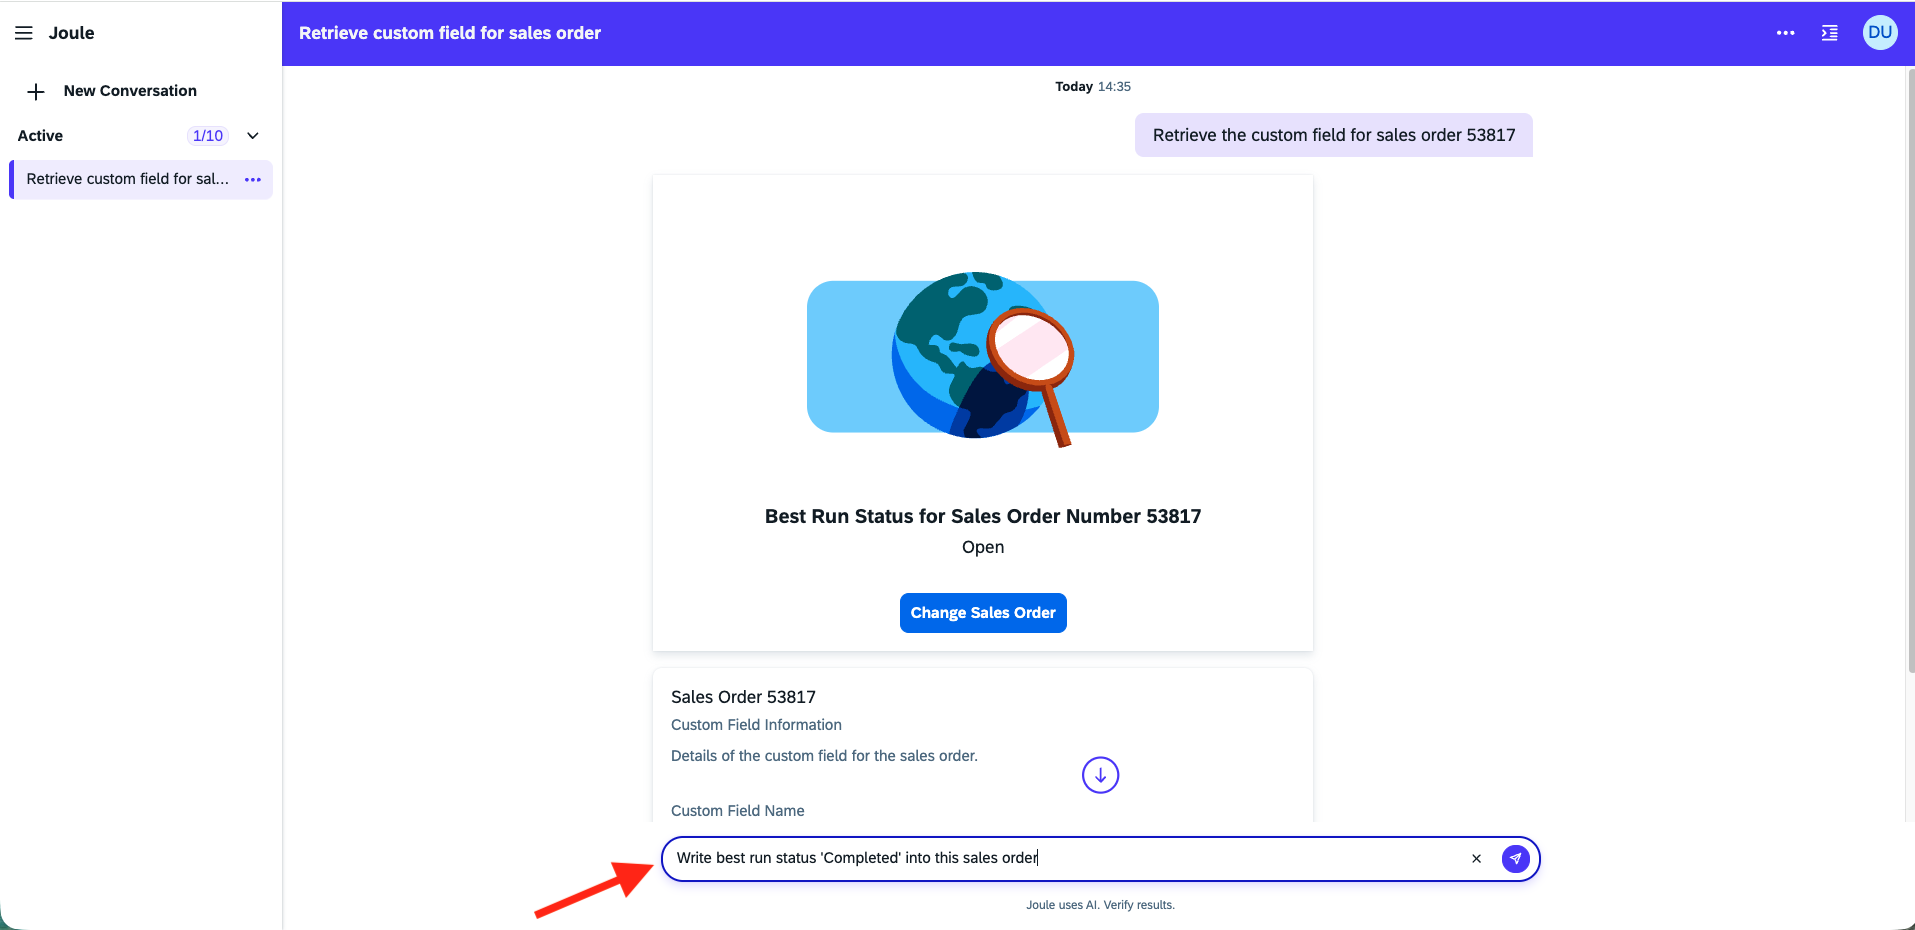
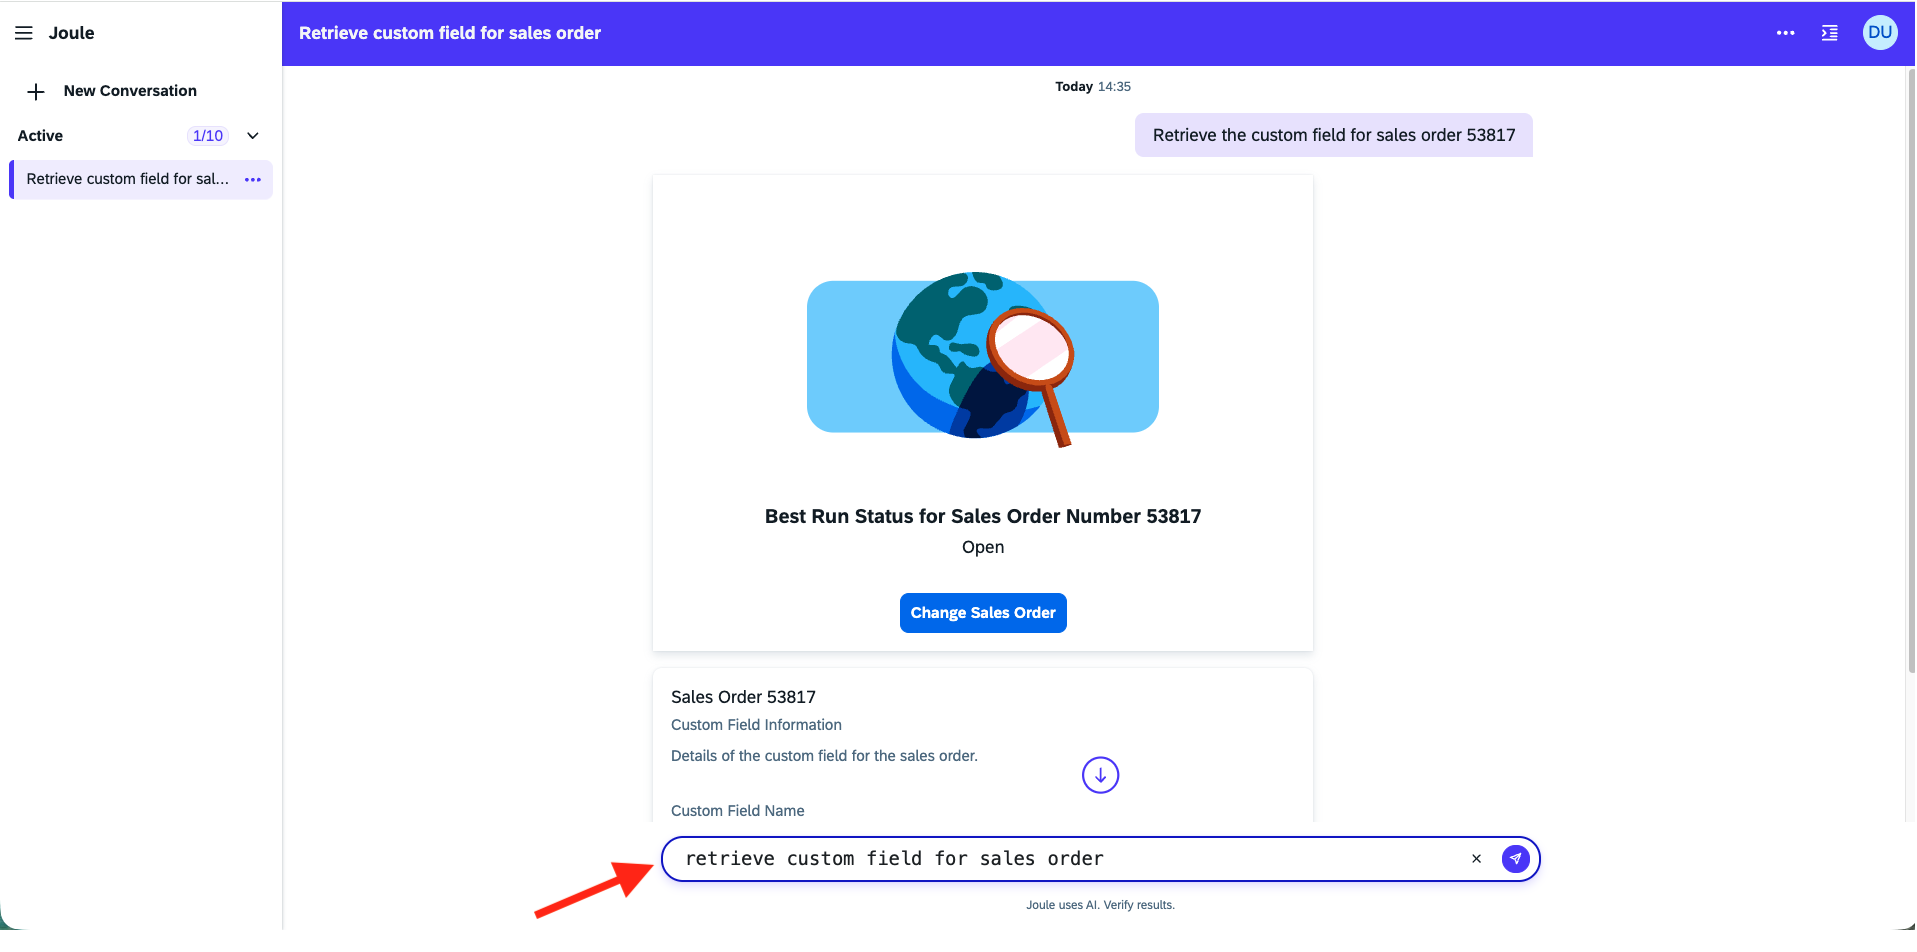
chnaged picture

diff --git a/exercises/ex1/README.md b/exercises/ex1/README.md
@@ -196,7 +196,7 @@ Once the Skill has been created, we can release and deploy the project. Then, th
 9. Now you are accessing a standalone version of Joule. Type in a similar user prompt as in the screenshot and submit your message. 
 <br>![](/exercises/ex1/images/ex1.3-9.png)
 
-10. If we want to test the second Skill, we don't even need to define the sales order number again since Joule is able to retrieve this from the message history.
+10. If we want to test the second Skill, we don't even need to define the sales order number again since Joule is able to retrieve this from the message history. Example prompt 'retrieve custom field for sales order' 
 <br>![](/exercises/ex1/images/ex1.3-10.png)
 
 11. The skills are working as expected.
